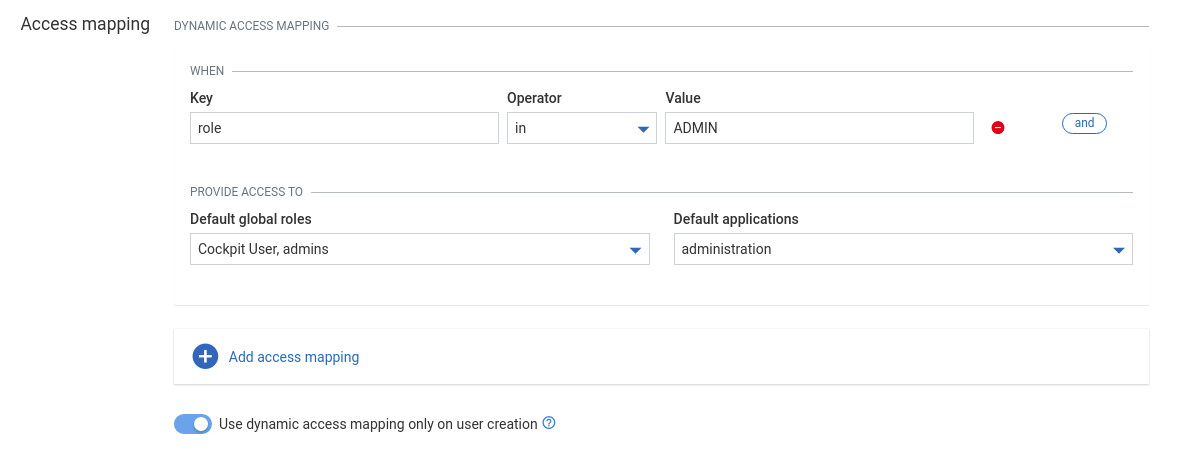
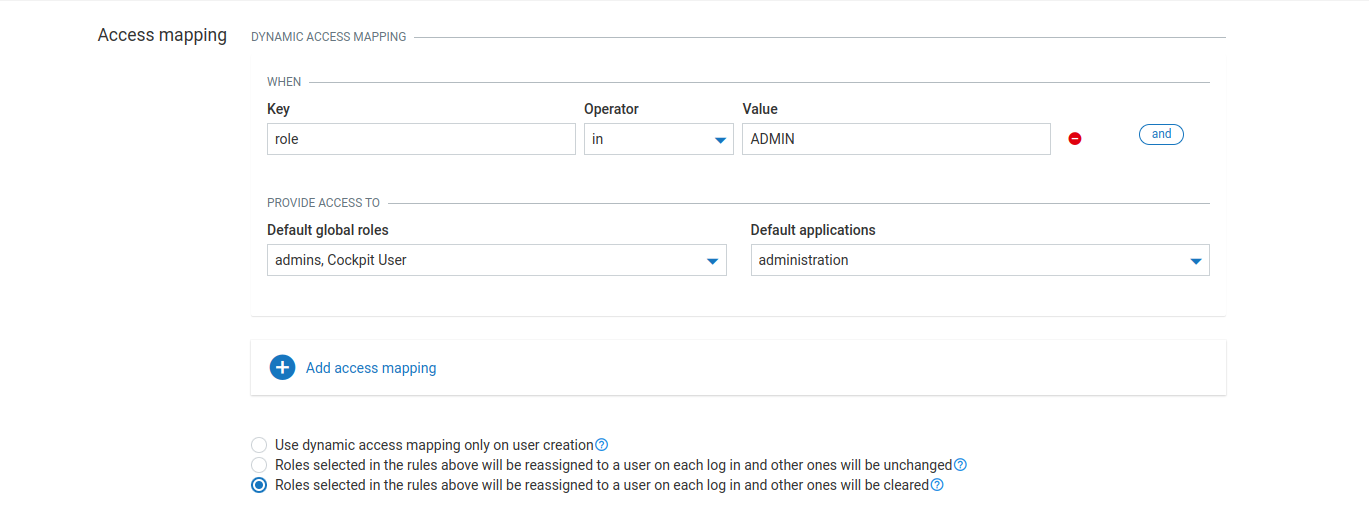
[MTM-47904] New SSO access mapping configuration enabled

diff --git a/content/users-guide/administration-bundle/changing-settings.md b/content/users-guide/administration-bundle/changing-settings.md
@@ -330,11 +330,17 @@ In this case the following claim will match the condition:
 
 As you can see, there is an option to verify if a value exists in a list via the "in" operator. Values can also be embedded in other objects. In this case a dot in the key implies looking into an embedded object.
 
-By default, dynamic access mapping assigns user roles, based on the access token, on every user login. This means, that it is not possible to change the user roles inside {{< product-c8y-iot >}} as these would be overridden on next user login. To change this behaviour, select the **Use dynamic access mapping only on user creation** checkbox at the bottom of the **Access mapping** section.
+By default, dynamic access mapping assigns user roles, based on the access token, on every user login.
+This means, that it is not possible to change the user roles inside {{< product-c8y-iot >}} as these would be overridden on next user login.
+To change this behaviour, select one of the following radio button at the bottom of the **Access mapping** section. :
+* **Use dynamic access mapping only on user creation**
+  * When selected, dynamic access mapping will be used only when a new user logs in to fill in the initial roles. When a user already exists in {{< product-c8y-iot >}}, the roles will not be overridden nor updated.
+* **Roles selected in the rules above will be reassigned to a user on each log in and other ones will be unchanged**
+  * When selected, dynamic access mapping will be used on every login, but the roles not listed in the access mapping configuration will not be updated. Only the roles that are listed in the defined access mapping rules will be overwritten.
 
 ![Custom access mapping](/images/users-guide/Administration/sso-custom-access-mapping-2.png)
 
-When selected, dynamic access mapping will be used only when a new user logs in to fill in the initial roles. When a user already exists in {{< product-c8y-iot >}}, the roles will not be overridden nor updated. Selecting this option also enables admins to edit roles of SSO users in the user management. For details, refer to  [Administration > Managing permissions](/users-guide/administration/#attach-global) in the *User guide*.
+Selecting one of the two options mentioned above will also enable admins to edit roles of SSO users in the user management. For details, refer to  [Administration > Managing permissions](/users-guide/administration/#attach-global) in the *User guide*.
 
 When a user logs in with an access token, the username can be derived from a JWT claim. The claim name can be configured in the **User ID configuration** window.
 The user ID can be set to any top-level field of the authorization token payload sent from the authorization server to the platform during the login process. We recommend you inspect the authorization token in the audit logs to make sure the correct field is used (see [Troubleshooting](#troubleshooting)).
